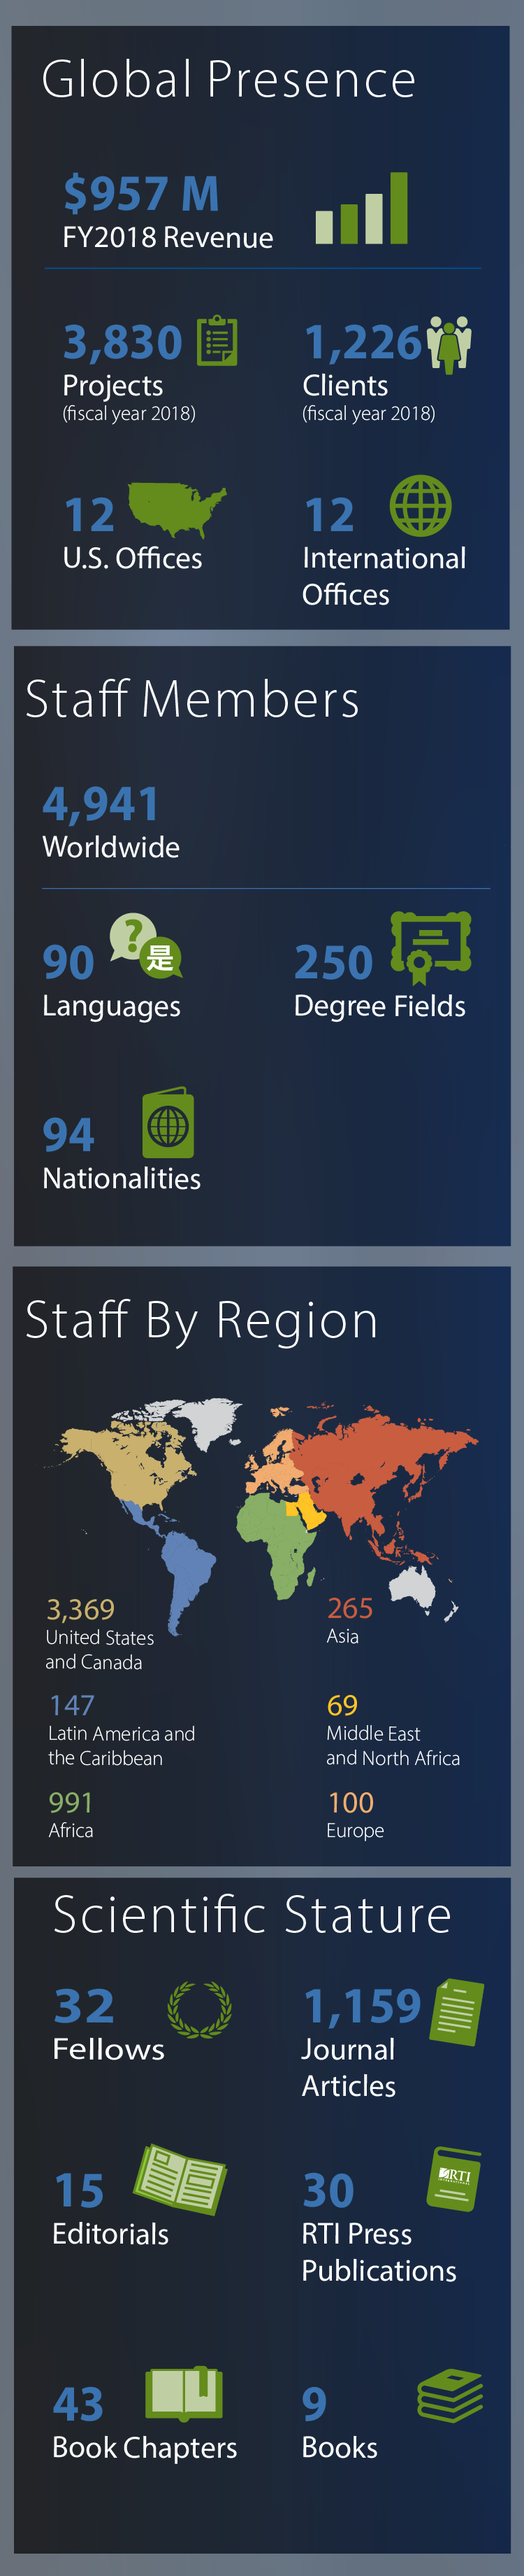
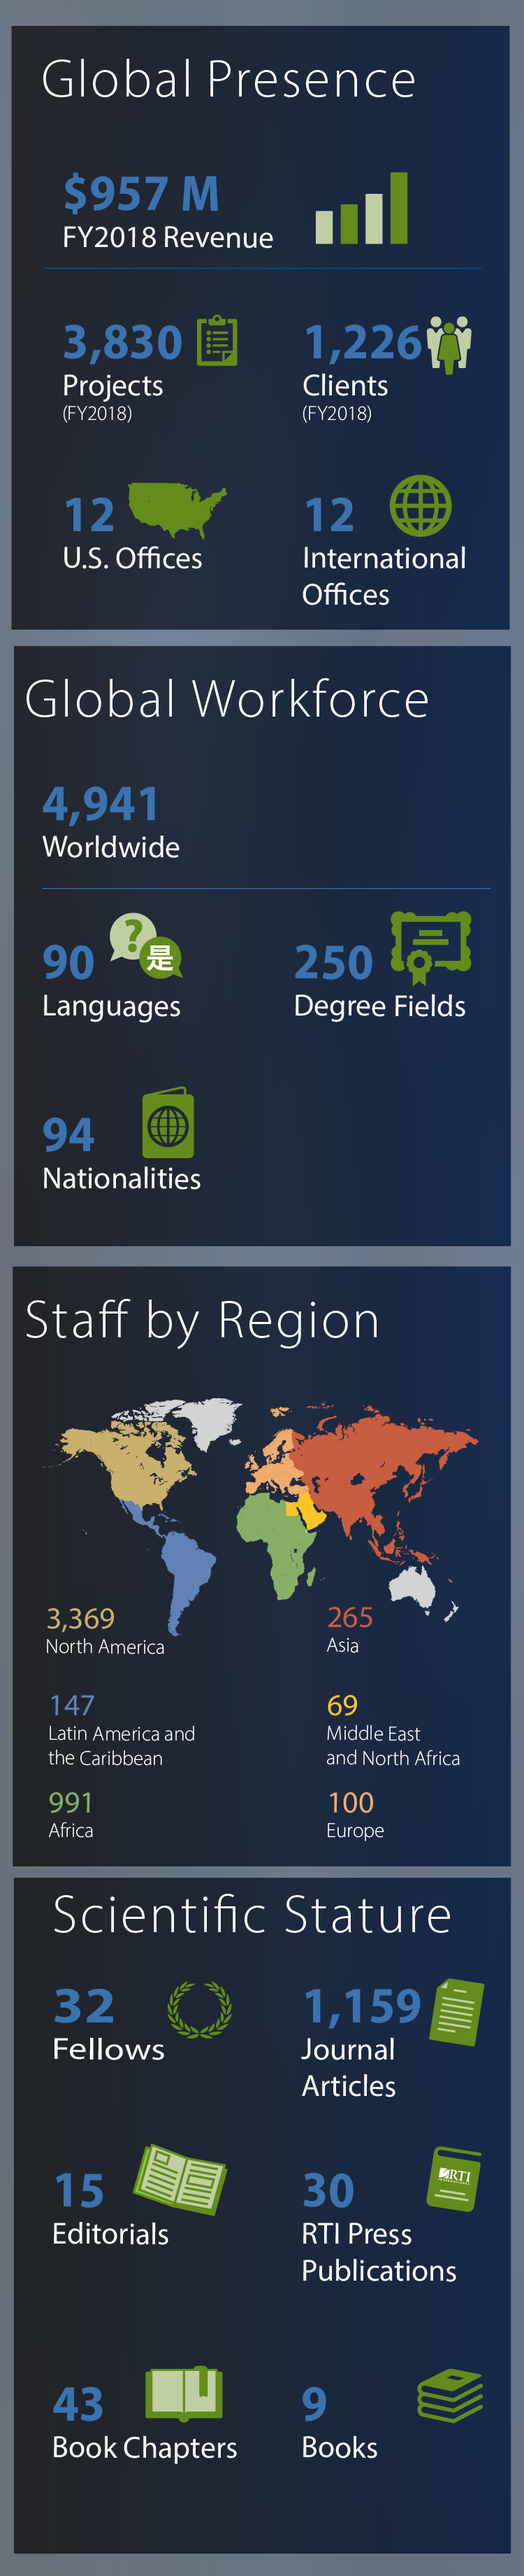
adding copy for at a glance and updating at a glance images

diff --git a/about-rti/at-a-glance.php b/about-rti/at-a-glance.php
@@ -17,11 +17,11 @@ include $REL_DIR.$INCL_DIR."meta-living.php";
         <div>
         <a href="http://www.rti.org"><img src="../img/RTI_w_1in.png" class="logo"></a>
         <!-- <img src="../img/RTI_w_1in.png" class="logo"> -->
-            <h1>At a Glance</h1>
+            <h1>At a Glance 2018</h1>
             <!-- <h2>Decisions delayed; employment choices made based on the cost of education</h2> -->
-            <!---<p class="light">
-					Lorem
-				</p>--->
+            <p class="light">
+                We are an independent, nonprofit research institute with a global presence and strong financial outlook. We combine scientific rigor and technical expertise in social and laboratory sciences, engineering, and international development. Driven by our mission, our worldwide staff is committed to delivering for our clients and advancing scientific scholarship and thought leadership.”
+			</p>
             <!-- <p class="readmore"><a href="" target="_blank">READ MORE</a></p> -->
             <!---<div style="background-color: black; width: 100%; min-height: 100px;"></div>--->
             <div id="at-a-glance-box">

diff --git a/about-rti/content.php b/about-rti/content.php
@@ -30,7 +30,7 @@
 			</div>
 
 			<div id="section2Head" class="acc-head" data-section="section2">
-				<p>RTI at a Glance</p><i class="fas fa-chevron-down crc-chevron" data-section="section2"></i>
+				<p>RTI at a Glance 2018</p><i class="fas fa-chevron-down crc-chevron" data-section="section2"></i>
 			</div>
 			<div id="section2" data-section="section2" class="acc-body">
 				<p><img src="img/AtaGlanceMobile-01.png" style="width:100%;"></p>
